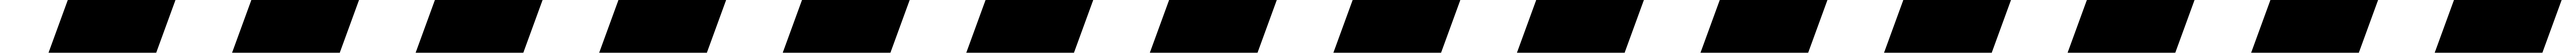
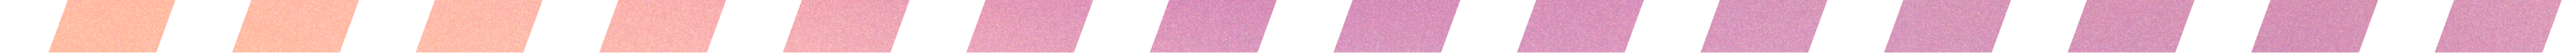
bottom construction bar

diff --git a/src/app/page.tsx b/src/app/page.tsx
@@ -218,6 +218,9 @@ export default function Home() {
         </div>
 
       </main>
+      <div className="flex w-full item-start bg-white">
+        <Image src="/constructionBar.png" alt="ship it" layout="responsive" width={100} height={100} />
+      </div>
     </>
   );
 }
